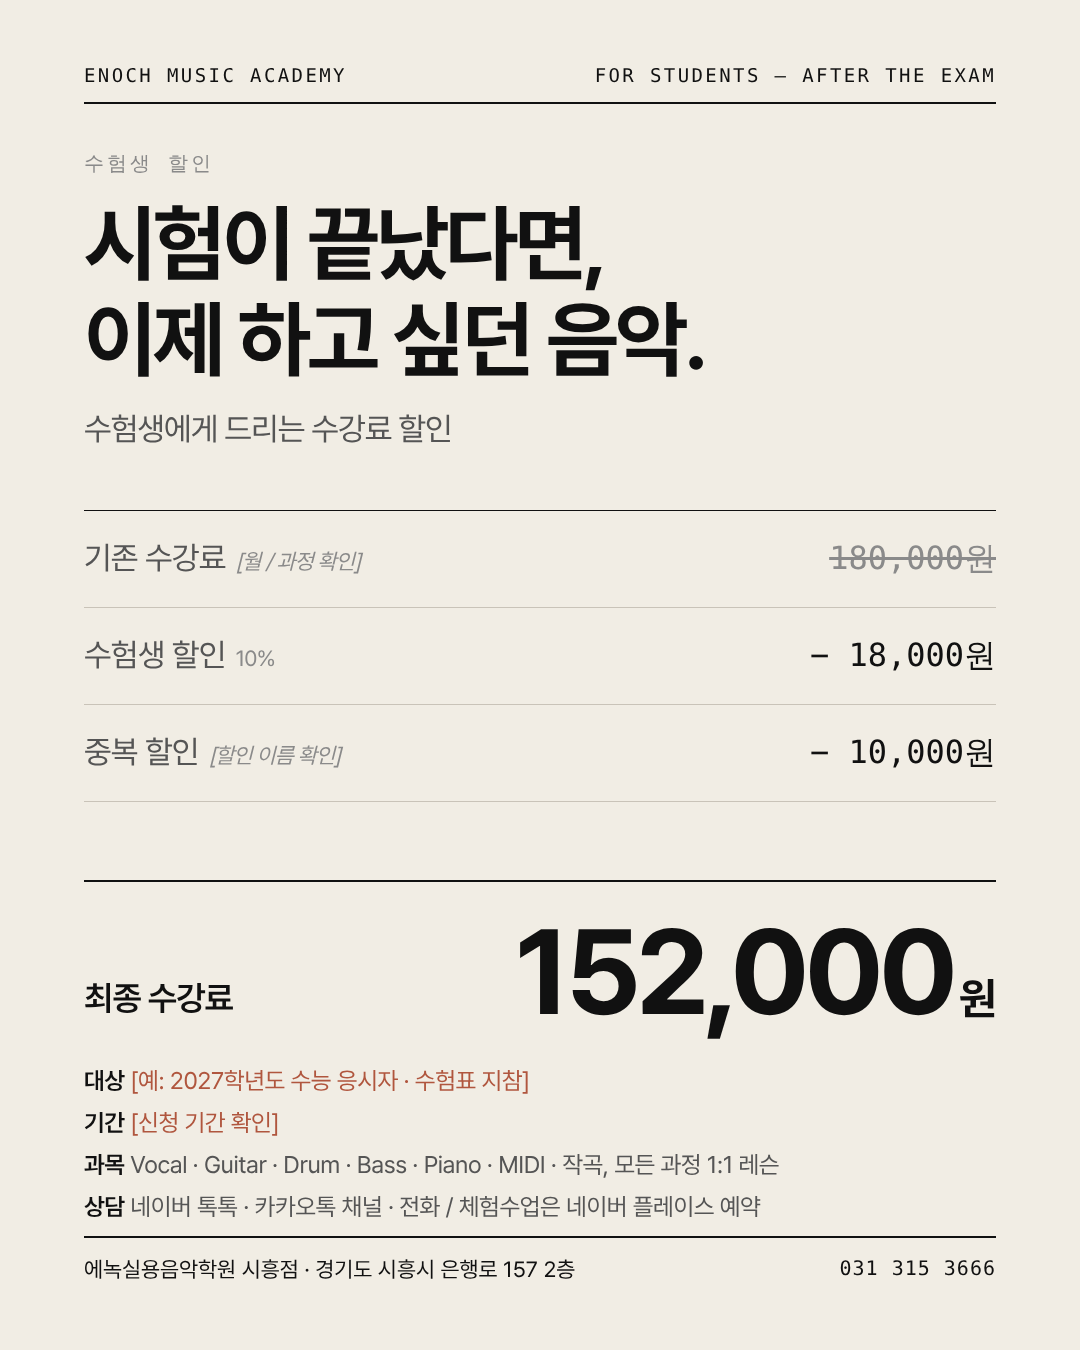
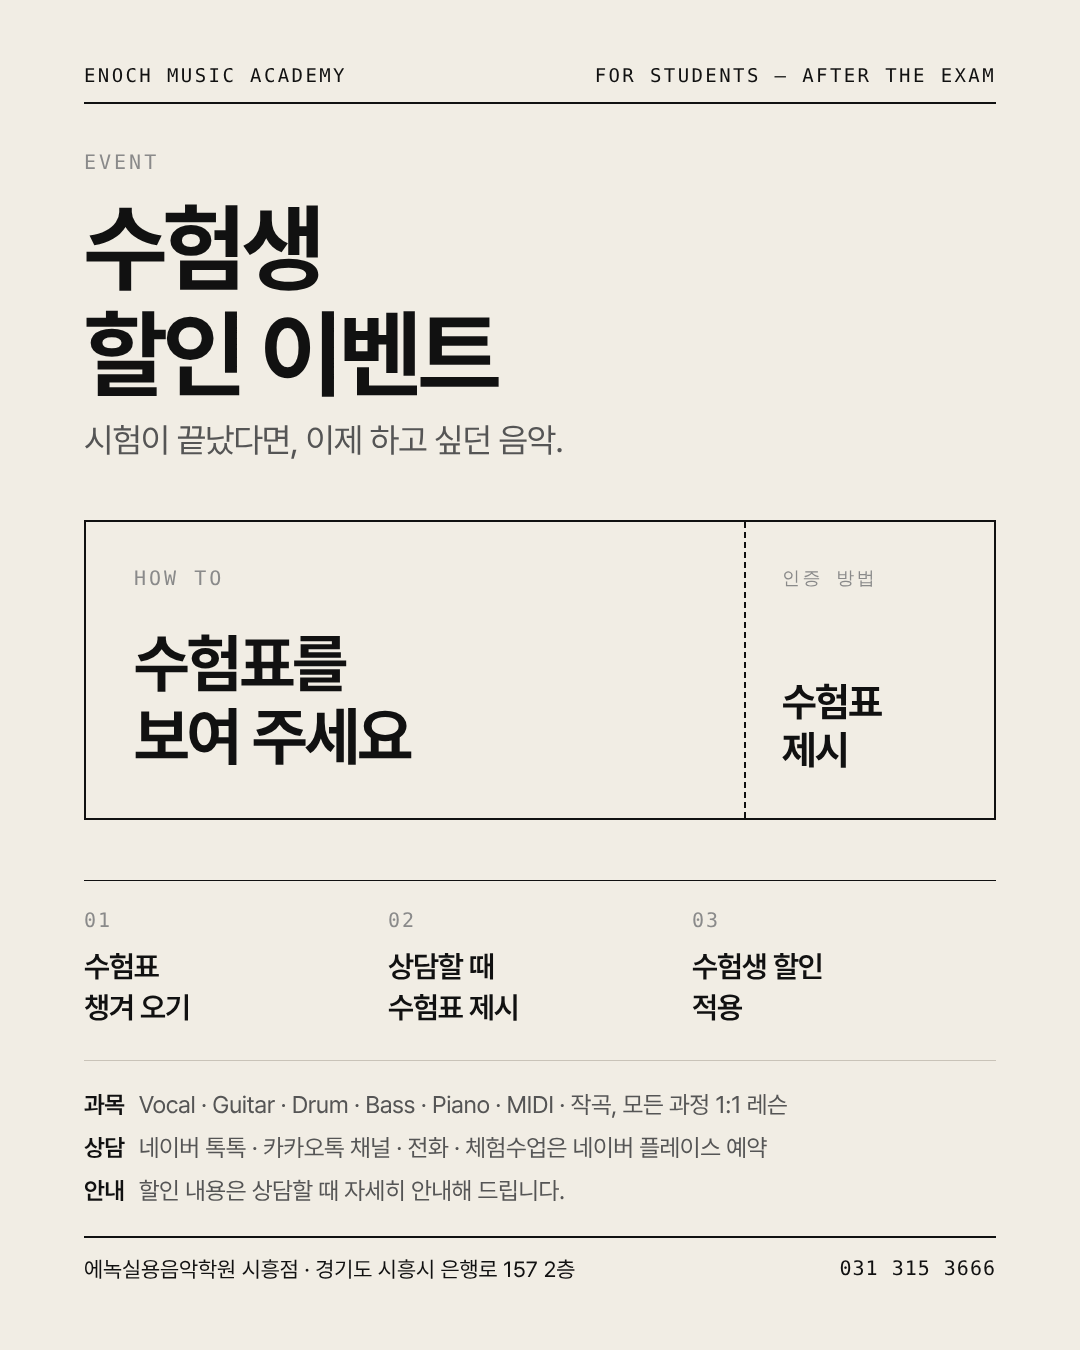
수험생 할인 이벤트 포스터 (금액 없이, 수험표 제시 인증)
Claude-Session: https://claude.ai/code/session_01HGbZvgMeYrbU7mY8bwfjyb

diff --git a/output/포스터_수능할인/poster.html b/output/포스터_수능할인/poster.html
@@ -1,6 +1,6 @@
-<!doctype html><html lang="ko"><head><meta charset="utf-8"><title>수험생 할인 포스터</title>
-<!-- 수험생 할인 포스터 1080×1350 (시안) — CHROMIUM_PATH=... node poster.mjs → poster.png
-     [ ] 표시는 확인 전 자리: 대상 조건, 기간, '중복 할인'의 이름, 가격 기준(월/과정) -->
+<!doctype html><html lang="ko"><head><meta charset="utf-8"><title>수험생 할인 이벤트 포스터</title>
+<!-- 수험생 할인 이벤트 포스터 1080×1350 — 금액은 쓰지 않음, 인증은 수험표 제시 (2026-11-19 원장님)
+     CHROMIUM_PATH=... node poster.mjs → poster.png -->
 <style>
 @font-face{font-family:P;src:url(../../templates/fonts/Pretendard-Light.woff2);font-weight:300}
 @font-face{font-family:P;src:url(../../templates/fonts/Pretendard-Regular.woff2);font-weight:400}
@@ -13,40 +13,41 @@ section>div{position:absolute;left:84px;right:84px}
 .mono{font-family:"IBM Plex Mono","DejaVu Sans Mono",monospace}
 .hd{top:64px;display:flex;justify-content:space-between;font-size:19px;letter-spacing:2.4px;padding-bottom:16px;border-bottom:2px solid #111}
 .lab{top:150px;font-size:20px;letter-spacing:3px;color:#8A8A8A}
-.ttl{top:196px;font-size:84px;font-weight:700;letter-spacing:-3.5px;line-height:1.14}
-.sub{top:410px;font-size:32px;color:#555;letter-spacing:-1px}
-.calc{top:510px;border-top:1.5px solid #111}
-.row{display:flex;justify-content:space-between;align-items:baseline;padding:26px 0;border-bottom:1px solid #C9C3B8;font-size:32px;letter-spacing:-.8px}
-.row .k{color:#555}
-.row .k small{font-size:22px;color:#8A8A8A;margin-left:10px}
-.row .v{font-family:"IBM Plex Mono","DejaVu Sans Mono",monospace;font-size:32px;letter-spacing:0}
-.row .v.minus{color:#111}
-.row .v.strike{color:#8A8A8A;text-decoration:line-through}
-.total{top:880px;display:flex;justify-content:space-between;align-items:flex-end;padding:30px 0 0;border-top:2px solid #111}
-.total .k{font-size:34px;font-weight:600;letter-spacing:-1px;padding-bottom:14px}
-.total .v{font-size:120px;font-weight:700;letter-spacing:-5px;line-height:1}
-.total .v span{font-size:44px;letter-spacing:-1px;margin-left:6px}
-.note{top:1060px;font-size:24px;line-height:1.75;color:#555;letter-spacing:-.4px}
-.note b{color:#111;font-weight:600}
-.note i{font-style:normal;color:#B0563E}
+.ttl{top:196px;font-size:96px;font-weight:700;letter-spacing:-4px;line-height:1.1}
+.sub{top:420px;font-size:34px;color:#555;letter-spacing:-1px}
+/* 수험표 모양: 얇은 실선 + 점선 절취선 (둥근 모서리·그림자 없음) */
+.tk{top:520px;height:300px;border:2px solid #111;display:flex}
+.tk .l{flex:1;padding:44px 48px;display:flex;flex-direction:column;justify-content:space-between}
+.tk .l .k{font-size:20px;letter-spacing:3px;color:#8A8A8A}
+.tk .l .t{font-size:64px;font-weight:700;letter-spacing:-2.5px;line-height:1.15}
+.tk .r{width:250px;border-left:2px dashed #111;padding:44px 36px;display:flex;flex-direction:column;justify-content:space-between}
+.tk .r .k{font-size:18px;letter-spacing:2.5px;color:#8A8A8A}
+.tk .r .v{font-size:40px;font-weight:700;letter-spacing:-1.5px;line-height:1.2}
+.steps{top:880px;display:grid;grid-template-columns:repeat(3,1fr);border-top:1.5px solid #111}
+.steps div{padding:26px 24px 0 0;font-size:30px;font-weight:600;letter-spacing:-1px;line-height:1.35}
+.steps i{display:block;font-style:normal;font-family:"IBM Plex Mono","DejaVu Sans Mono",monospace;font-size:20px;font-weight:400;color:#8A8A8A;letter-spacing:2px;margin-bottom:12px}
+.note{top:1060px;font-size:24px;line-height:1.8;color:#555;letter-spacing:-.4px;padding-top:22px;border-top:1px solid #C9C3B8}
+.note b{color:#111;font-weight:600;margin-right:14px}
 .ft{top:1236px;display:flex;justify-content:space-between;font-size:20px;letter-spacing:1px;padding-top:18px;border-top:2px solid #111}
 .ft span:first-child{font-family:P,sans-serif;letter-spacing:0;font-size:22px}
 </style></head><body><section>
 <div class="hd mono"><span>ENOCH MUSIC ACADEMY</span><span>FOR STUDENTS — AFTER THE EXAM</span></div>
-<div class="lab mono">수험생 할인</div>
-<div class="ttl">시험이 끝났다면,<br>이제 하고 싶던 음악.</div>
-<div class="sub">수험생에게 드리는 수강료 할인</div>
-<div class="calc">
- <div class="row"><span class="k">기존 수강료<small><i>[월 / 과정 확인]</i></small></span><span class="v strike">180,000원</span></div>
- <div class="row"><span class="k">수험생 할인<small>10%</small></span><span class="v minus">− 18,000원</span></div>
- <div class="row"><span class="k">중복 할인<small><i>[할인 이름 확인]</i></small></span><span class="v minus">− 10,000원</span></div>
+<div class="lab mono">EVENT</div>
+<div class="ttl">수험생<br>할인 이벤트</div>
+<div class="sub">시험이 끝났다면, 이제 하고 싶던 음악.</div>
+<div class="tk">
+ <div class="l"><span class="k mono">HOW TO</span><span class="t">수험표를<br>보여 주세요</span></div>
+ <div class="r"><span class="k mono">인증 방법</span><span class="v">수험표<br>제시</span></div>
 </div>
-<div class="total"><span class="k">최종 수강료</span><span class="v">152,000<span>원</span></span></div>
+<div class="steps">
+ <div><i>01</i>수험표<br>챙겨 오기</div>
+ <div><i>02</i>상담할 때<br>수험표 제시</div>
+ <div><i>03</i>수험생 할인<br>적용</div>
+</div>
 <div class="note">
- <b>대상</b> <i>[예: 2027학년도 수능 응시자 · 수험표 지참]</i><br>
- <b>기간</b> <i>[신청 기간 확인]</i><br>
- <b>과목</b> Vocal · Guitar · Drum · Bass · Piano · MIDI · 작곡, 모든 과정 1:1 레슨<br>
- <b>상담</b> 네이버 톡톡 · 카카오톡 채널 · 전화 / 체험수업은 네이버 플레이스 예약
+ <b>과목</b>Vocal · Guitar · Drum · Bass · Piano · MIDI · 작곡, 모든 과정 1:1 레슨<br>
+ <b>상담</b>네이버 톡톡 · 카카오톡 채널 · 전화 · 체험수업은 네이버 플레이스 예약<br>
+ <b>안내</b>할인 내용은 상담할 때 자세히 안내해 드립니다.
 </div>
 <div class="ft mono"><span>에녹실용음악학원 시흥점 · 경기도 시흥시 은행로 157 2층</span><span>031 315 3666</span></div>
 </section></body></html>
